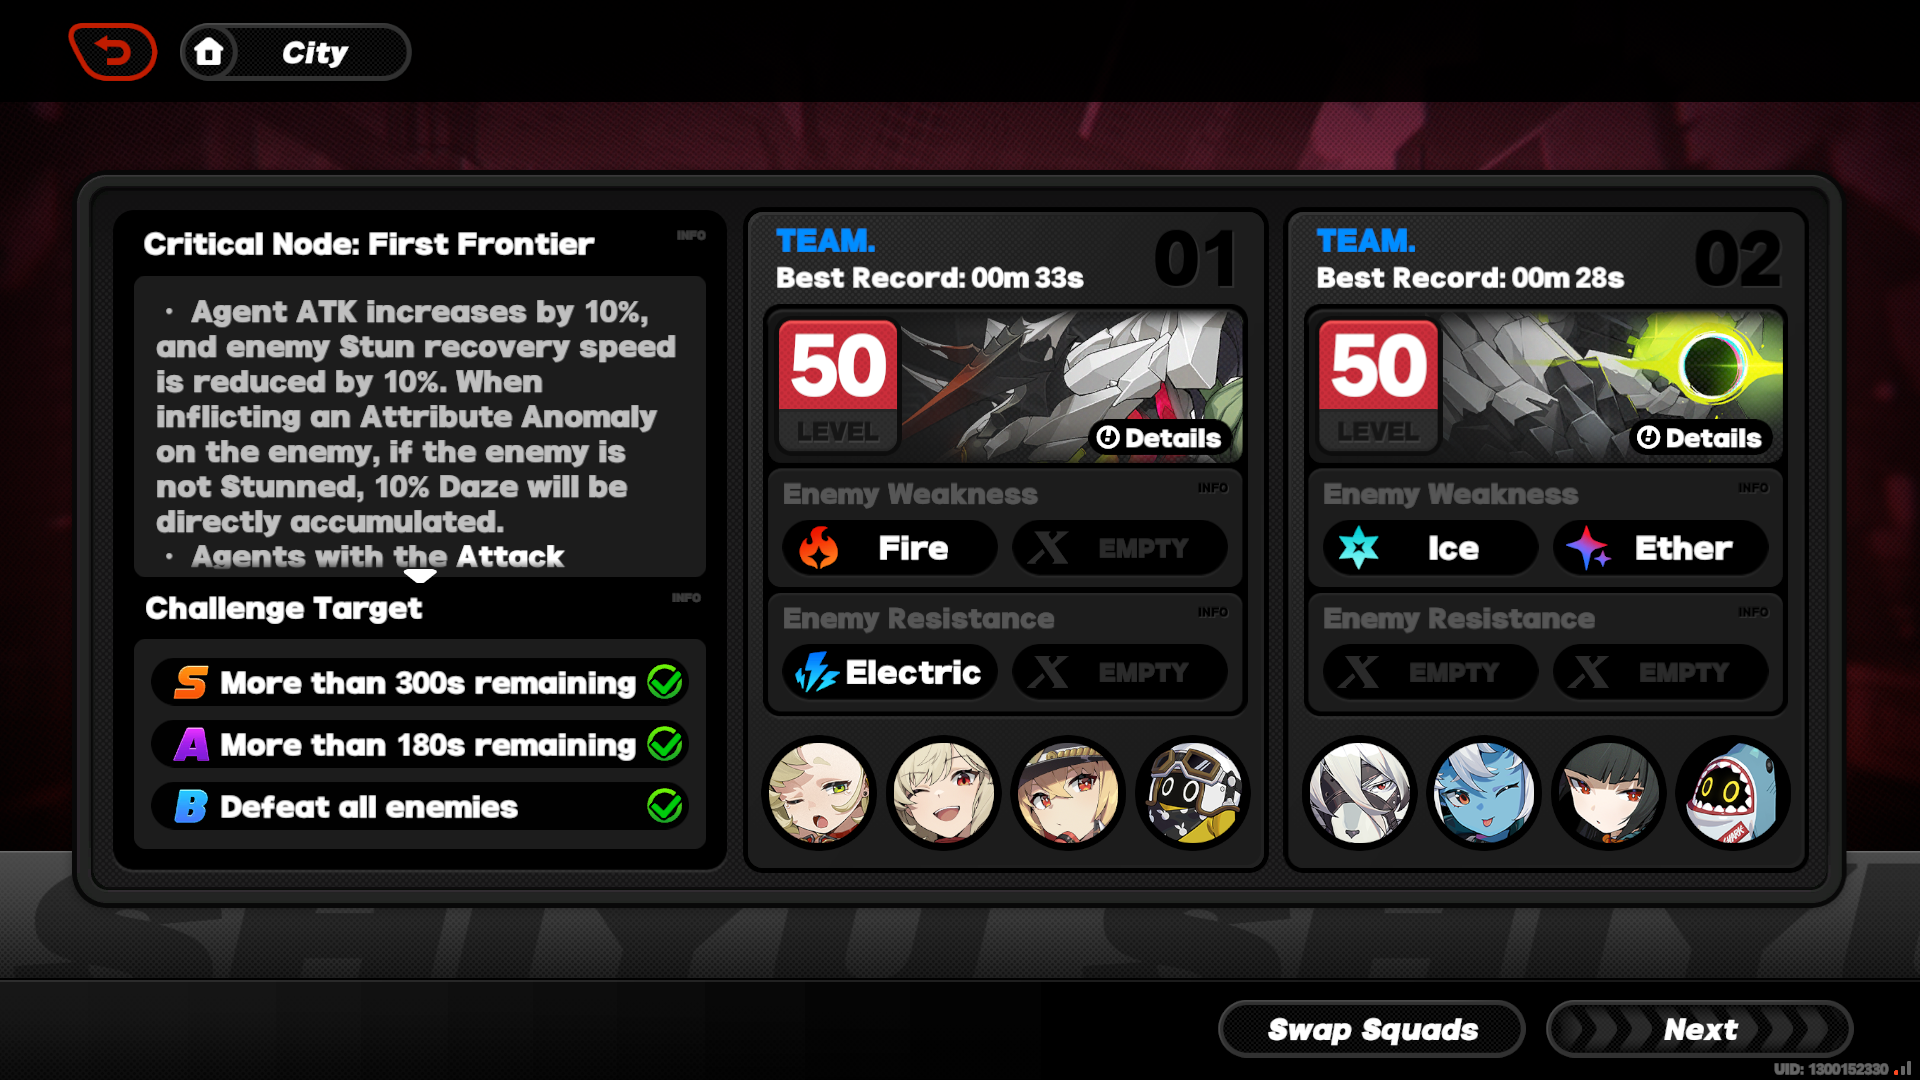
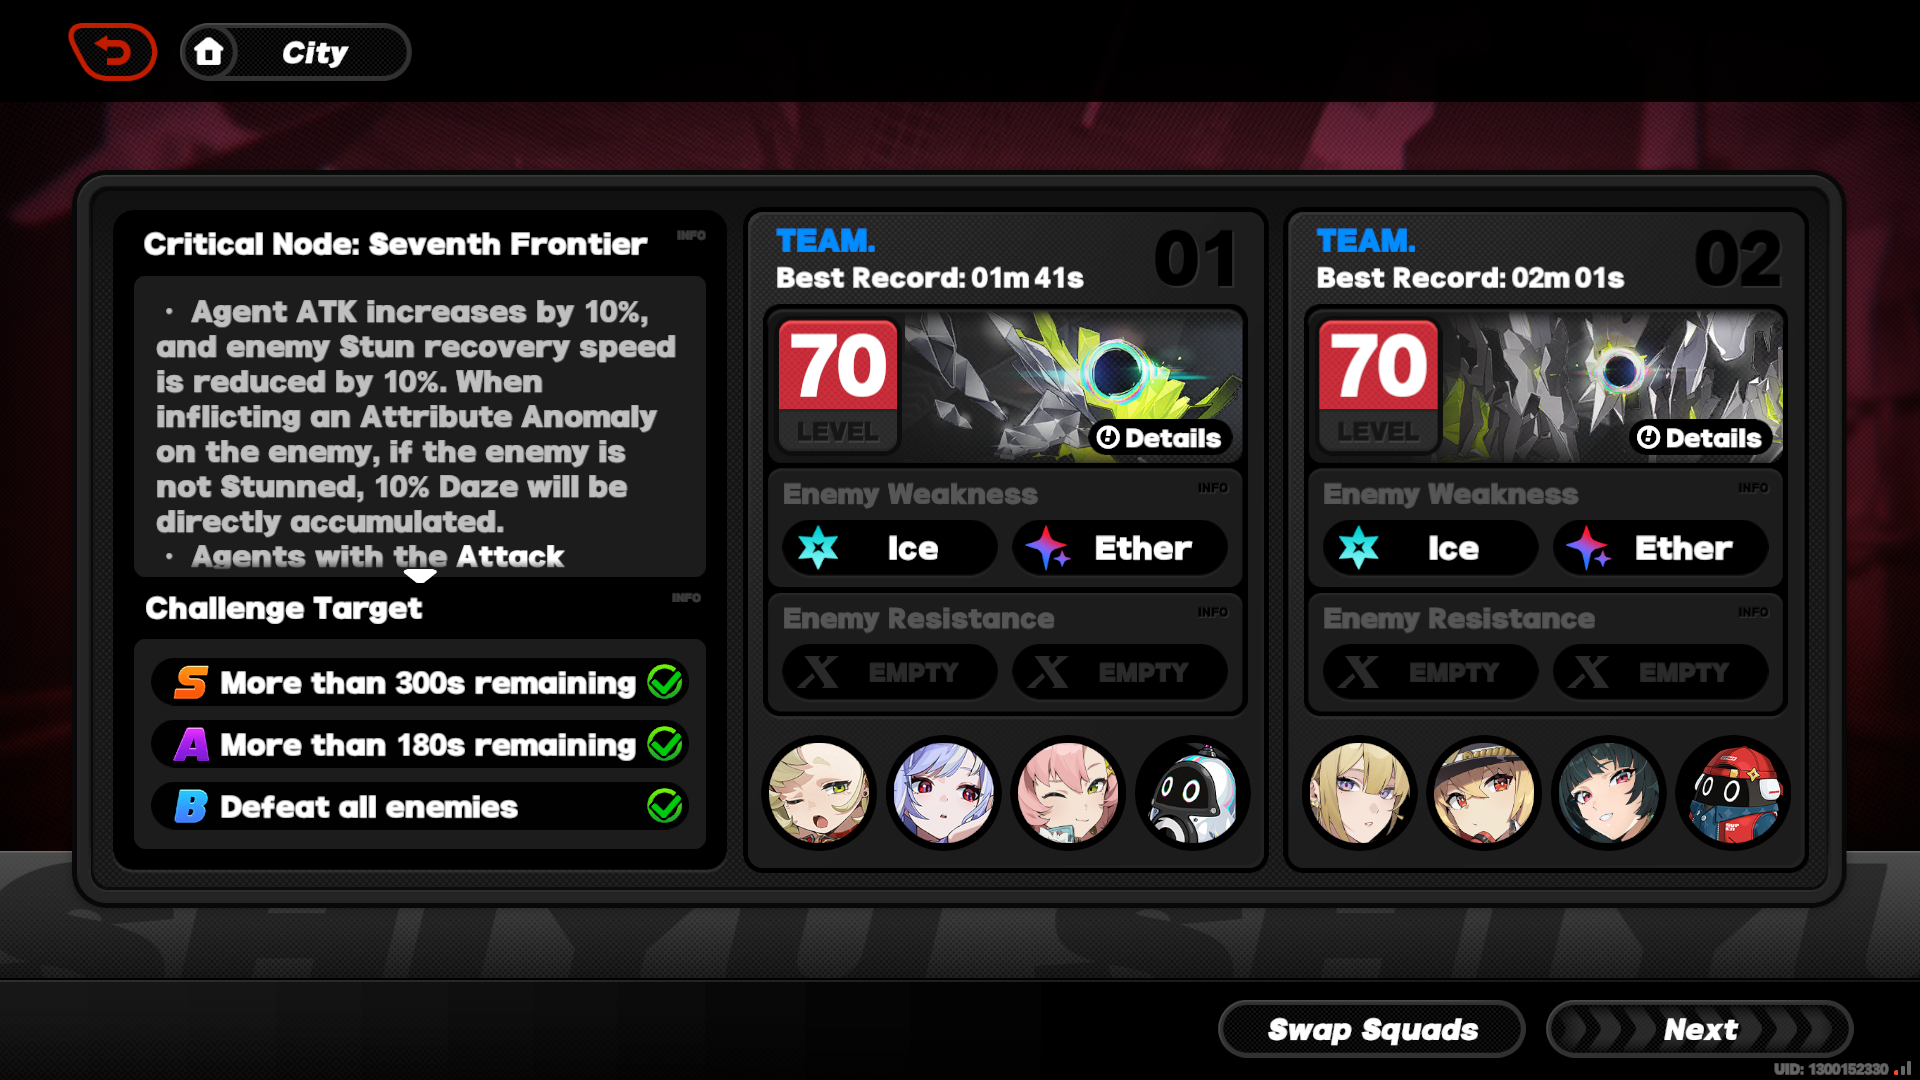
Add OCR, resolves: #10. Add prepare stage proccessing, resolve: #9

diff --git a/src/game_match.rs b/src/game_match.rs
@@ -18,6 +18,7 @@ use crate::{
     ocr::{
         agents::{Agent, PickStage},
         confirm::{ConfirmDialog, ConfirmOcr},
+        frontier::{Frontier, FrontierOcr},
         pause::{Pause, PauseOcr},
         timer::{RunStage, Timer, TimerStage},
     },
@@ -36,6 +37,7 @@ pub enum Message {
     Home,
 
     ScanTick(Instant),
+    SetFrontier(Option<Frontier>),
     SetAgents(Option<Vec<Option<Agent>>>),
     SetIngameTimer(Option<Timer>),
     SetTimer(Timer),
@@ -48,13 +50,16 @@ pub enum Message {
 
 #[derive(Debug, Clone)]
 pub enum Stage {
+    FrontierSelection,
     Pick,
+    Prepare,
     Run,
     Finished,
     GameOver,
 }
 
 pub struct GameMatch {
+    frontier: Option<Frontier>,
     timer: Option<Timer>,
     ingame_timer: Option<Timer>,
     restart_amount: u8,
@@ -75,13 +80,14 @@ impl GameMatch {
         let window_exists = capture(buffer.clone()).is_ok();
 
         GameMatch {
+            frontier: None,
             timer: None,
             ingame_timer: None,
             restart_amount: 0,
             agents: None,
             current_image: buffer,
             window_exists,
-            stage: Stage::Pick,
+            stage: Stage::FrontierSelection,
             match_result: Vec::with_capacity(2),
             prepare_next_stage: false,
             in_pause: false,
@@ -112,6 +118,35 @@ impl GameMatch {
 
                 let prepare_next_stage = self.prepare_next_stage.clone();
                 match self.stage {
+                    Stage::FrontierSelection => {
+                        let frontier_task = Task::future(async move {
+                            let shared_img1 = shared_img.clone();
+                            let agents = spawn_blocking(move || {
+                                let ocr = PickStage::get_agent_ocr(&shared_img1.clone());
+                                Agent::from_raw_ocr(&ocr)
+                            })
+                            .await
+                            .unwrap();
+
+                            if agents.is_some() {
+                                return Message::ChangeStage(Stage::Pick);
+                            }
+
+                            let shared_img2 = shared_img.clone();
+                            let frontier = spawn_blocking(move || {
+                                let ocr = FrontierOcr::get_ocr(&shared_img2);
+                                Frontier::from_raw_ocr(ocr)
+                            })
+                            .await
+                            .unwrap();
+
+                            Message::SetFrontier(frontier)
+                        });
+
+                        if prepare_next_stage {}
+
+                        Action::Run(frontier_task)
+                    }
                     Stage::Pick => Action::Run(Task::future(async move {
                         let run_timer = if prepare_next_stage {
                             let ocr = RunStage::get_timer_ocr(&*shared_img.clone());
@@ -175,7 +210,7 @@ impl GameMatch {
                             .unwrap();
 
                             println!("Confirm type: {:?}", confirm);
-                            
+
                             Message::SetRestart(pause.is_some(), confirm.is_some())
                         });
 
@@ -219,6 +254,16 @@ impl GameMatch {
                 Action::None
             }
 
+            Message::SetFrontier(frontier) => {
+                if self.frontier.is_some() && frontier.is_none() {
+                    self.prepare_next_stage = true;
+                } else {
+                    self.prepare_next_stage = false;
+                    self.frontier = frontier;
+                }
+
+                Action::None
+            }
             Message::SetAgents(agents) => {
                 if self.agents.is_some() && agents.is_none() {
                     self.prepare_next_stage = true;
@@ -301,7 +346,7 @@ impl GameMatch {
                 let mut iter = self.match_result.iter().enumerate();
 
                 let mut cols = Vec::with_capacity(2);
-
+                
                 while let Some((idx, match_res)) = iter.next() {
                     let header = text(format!("Roster {}", idx + 1))
                         .size(20)
@@ -329,6 +374,11 @@ impl GameMatch {
                 Column::from_vec(cols).width(Length::Fill).spacing(30)
             }
             _ => {
+                let frontier_text = match &self.frontier {
+                    Some(f) => format!("Selected frontier: {:?}", f),
+                    None => format!("Frontier is not selected"),
+                };
+                let frontier = text(frontier_text);
                 let paused = text(format!("Paused: {}", &self.in_pause));
                 let confirm = text(format!("Confirm opened: {}", &self.count_restart));
                 let round = text(format!("Game {}", self.match_result.len() + 1));
@@ -350,7 +400,7 @@ impl GameMatch {
                     None => text("Not in Pick Stage").into(),
                 };
 
-                column![paused, confirm, round, restarts, timer, agents].width(Length::Fill)
+                column![frontier, paused, confirm, round, restarts, timer, agents].width(Length::Fill)
             }
         });
 

diff --git a/src/ocr/frontier.rs b/src/ocr/frontier.rs
@@ -1,1 +1,95 @@
-pub struct Frontier;
+use image::{
+    codecs::png::PngEncoder, ExtendedColorType, GenericImageView, ImageBuffer, ImageEncoder, Rgba,
+};
+use tesseract::Tesseract;
+
+#[derive(Debug, Clone)]
+pub enum Frontier {
+    Fifth,
+    Sixth,
+    Seventh,
+    NotPickable,
+}
+
+impl Frontier {
+    pub fn from_raw_ocr(frontier: String) -> Option<Self> {
+        let mut iter = frontier.split_whitespace();
+        let num = iter.next()?;
+        let postfix = iter.next()?;
+
+        if postfix != "Frontier" {
+            return None;
+        }
+
+        match num {
+            "First" | "Second" | "Third" | "Fourth" => Some(Frontier::NotPickable),
+            "Fifth" => Some(Frontier::Fifth),
+            "Sixth" => Some(Frontier::Sixth),
+            "Seventh" => Some(Frontier::Seventh),
+            _ => None,
+        }
+    }
+}
+
+pub struct FrontierOcr;
+
+impl FrontierOcr {
+    pub fn get_ocr(image: &ImageBuffer<Rgba<u8>, Vec<u8>>) -> String {
+        const X: u32 = 366;
+        const Y: u32 = 229;
+        const WIDTH: u32 = 289;
+        const HEIGHT: u32 = 28;
+
+        let frontier_title = image.view(X, Y, WIDTH, HEIGHT).to_image();
+        frontier_title.save("front.png").unwrap();
+
+        let mut buffer = vec![];
+
+        let png_encoder = PngEncoder::new(&mut buffer);
+        png_encoder
+            .write_image(
+                frontier_title.as_raw(),
+                WIDTH,
+                HEIGHT,
+                ExtendedColorType::Rgba8,
+            )
+            .unwrap();
+
+        let tesseract =
+            Tesseract::new(Some("C:/Program Files/Tesseract-OCR/tessdata"), Some("eng")).unwrap();
+
+        let frontier = tesseract
+            .set_image_from_mem(&buffer)
+            .unwrap()
+            .get_text()
+            .unwrap()
+            .trim()
+            .to_string();
+
+        frontier
+    }
+}
+
+#[cfg(test)]
+mod tests {
+    use std::sync::{Arc, Mutex};
+
+    use image::RgbaImage;
+
+    use crate::capture::capture_once;
+
+    use super::*;
+
+    #[test]
+    fn frontier() {
+        let buf = Arc::new(Mutex::new(vec![]));
+        capture_once(buf.clone()).unwrap();
+
+        let image_buf = buf.lock().unwrap().clone();
+        let image = RgbaImage::from_vec(1920, 1080, image_buf).unwrap();
+
+        let res = FrontierOcr::get_ocr(&image);
+        let res = Frontier::from_raw_ocr(res);
+        println!("{res:#?}");
+    }
+}
